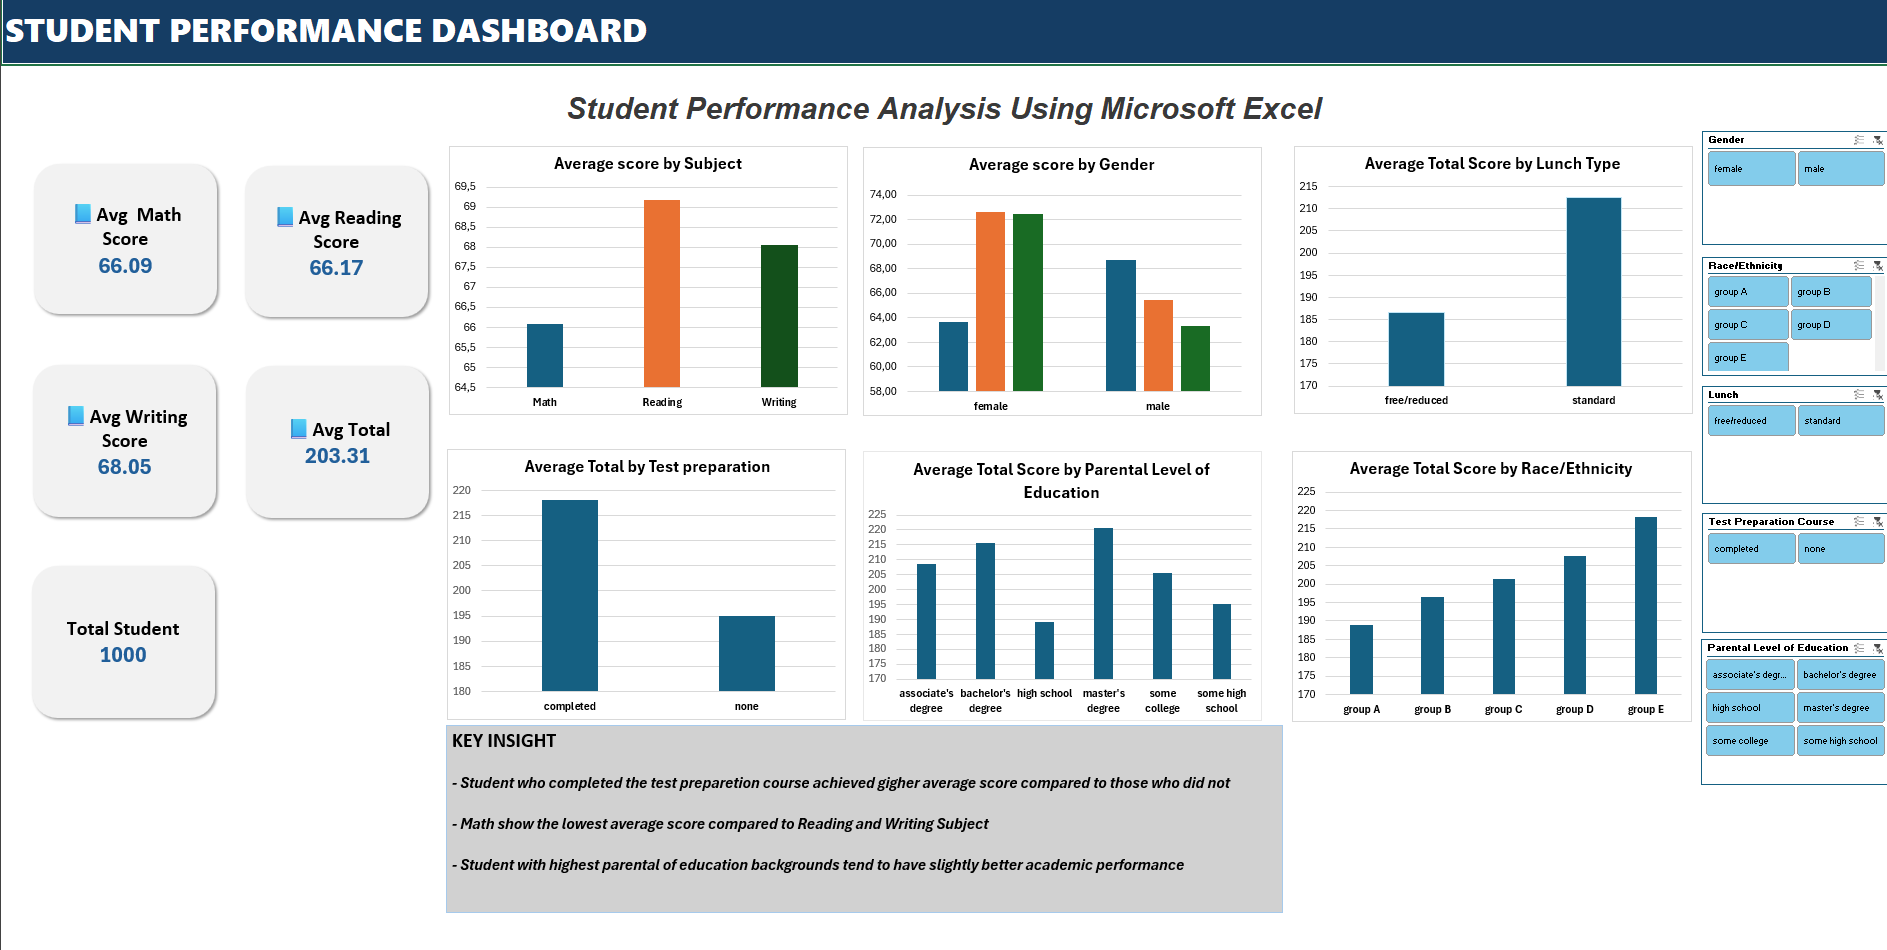
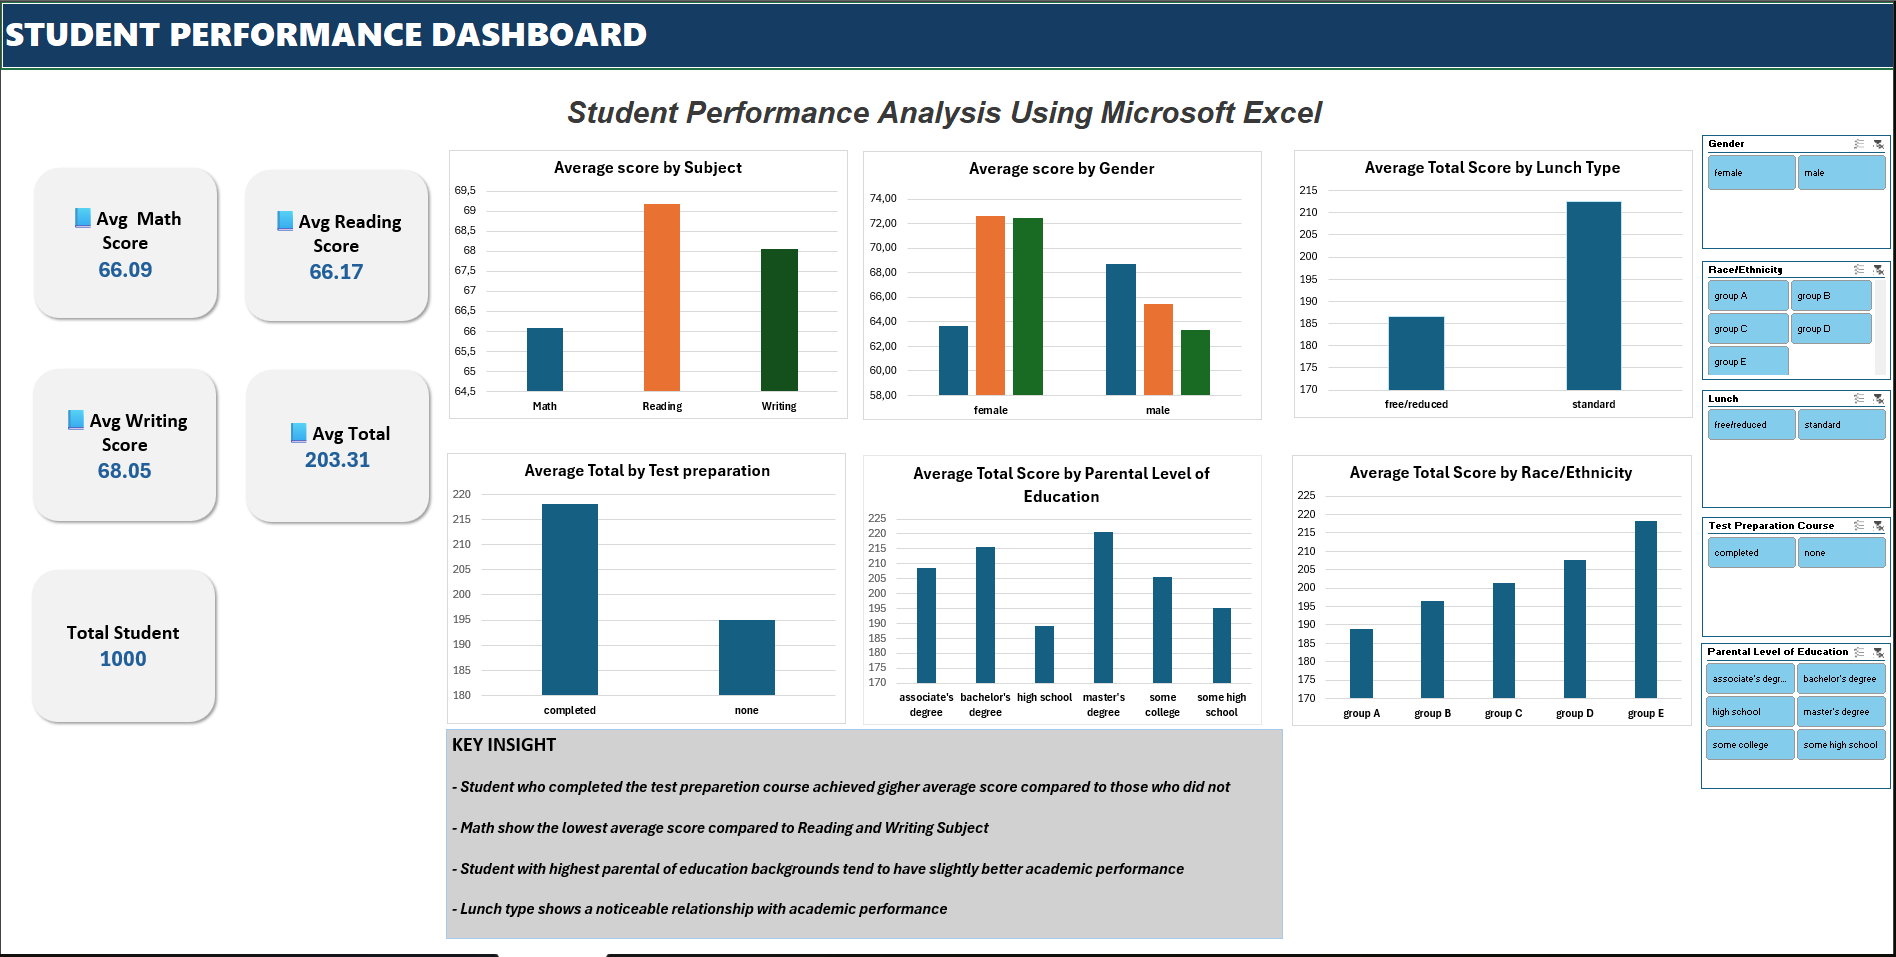
update dashboard

diff --git a/README.md b/README.md
@@ -75,7 +75,7 @@ Skills
 💡 Key Insights
 
 - Students who completed the test preparation course achieved higher average scores.
-- Reading has the highest average score among all subjects.
+- Math show the lowest average score compared to Reading and Writing Subject
 - Students with parents who have higher education levels tend to perform better academically.
 - Lunch type shows a noticeable relationship with academic performance.
 
